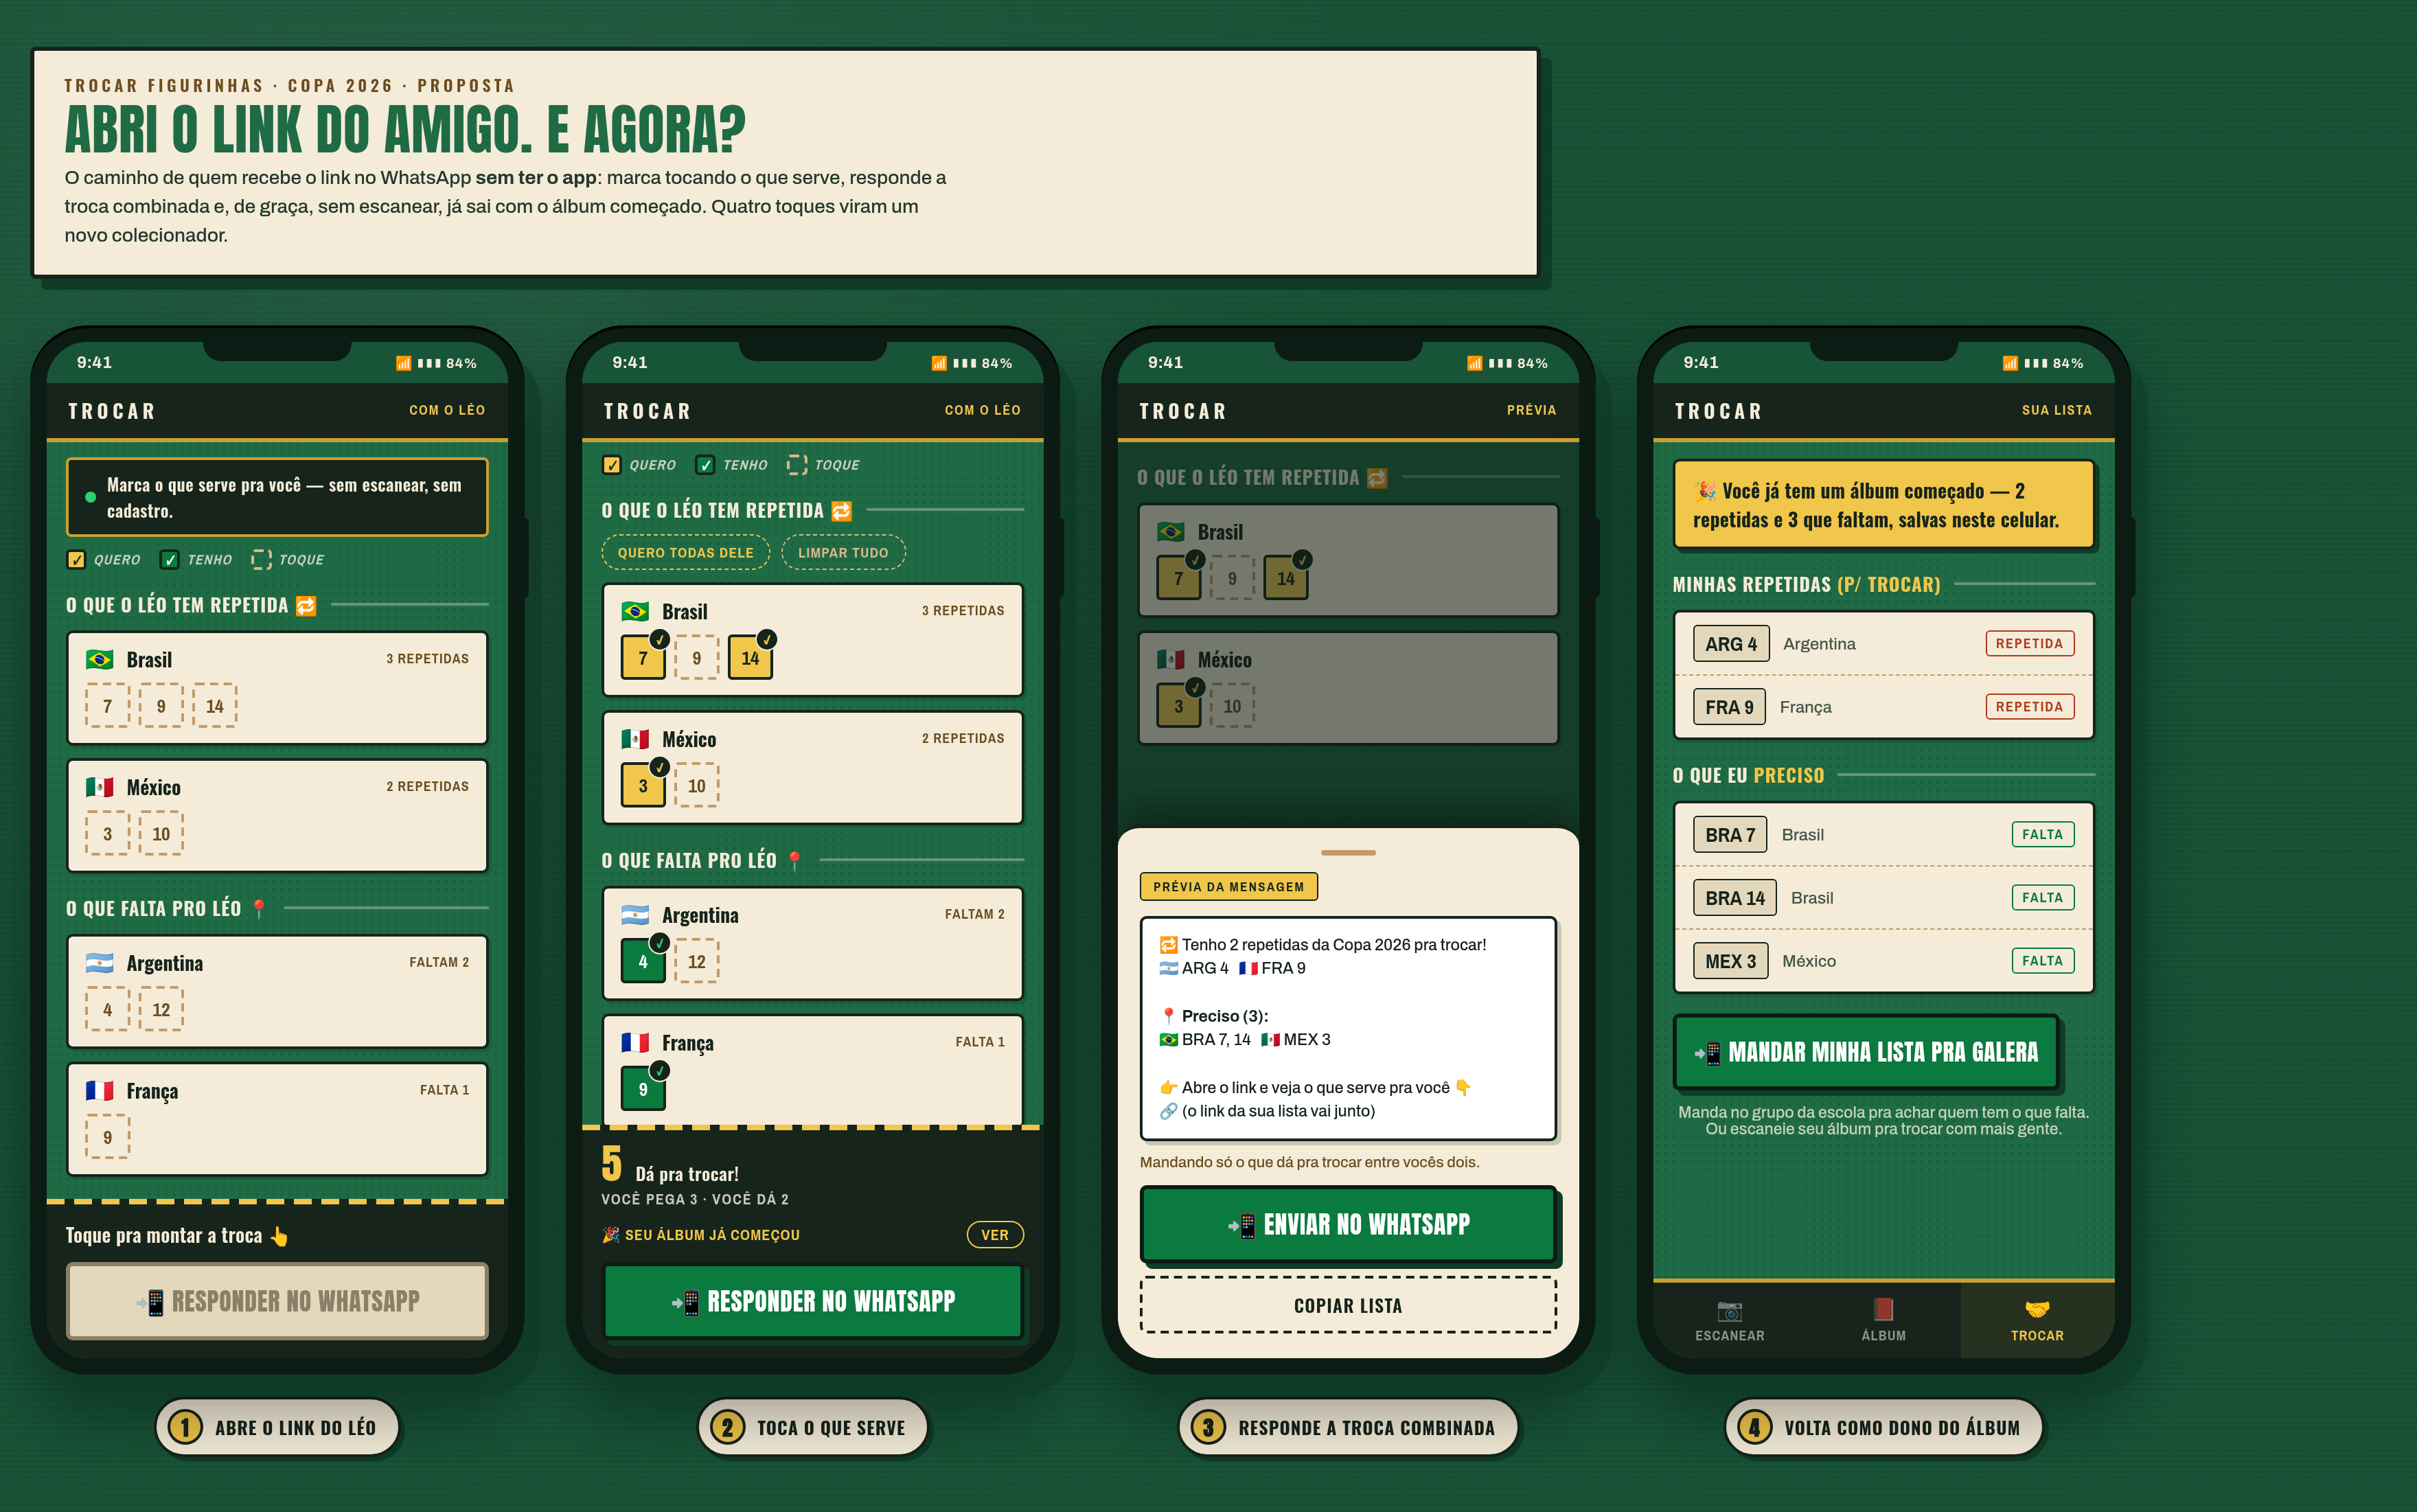
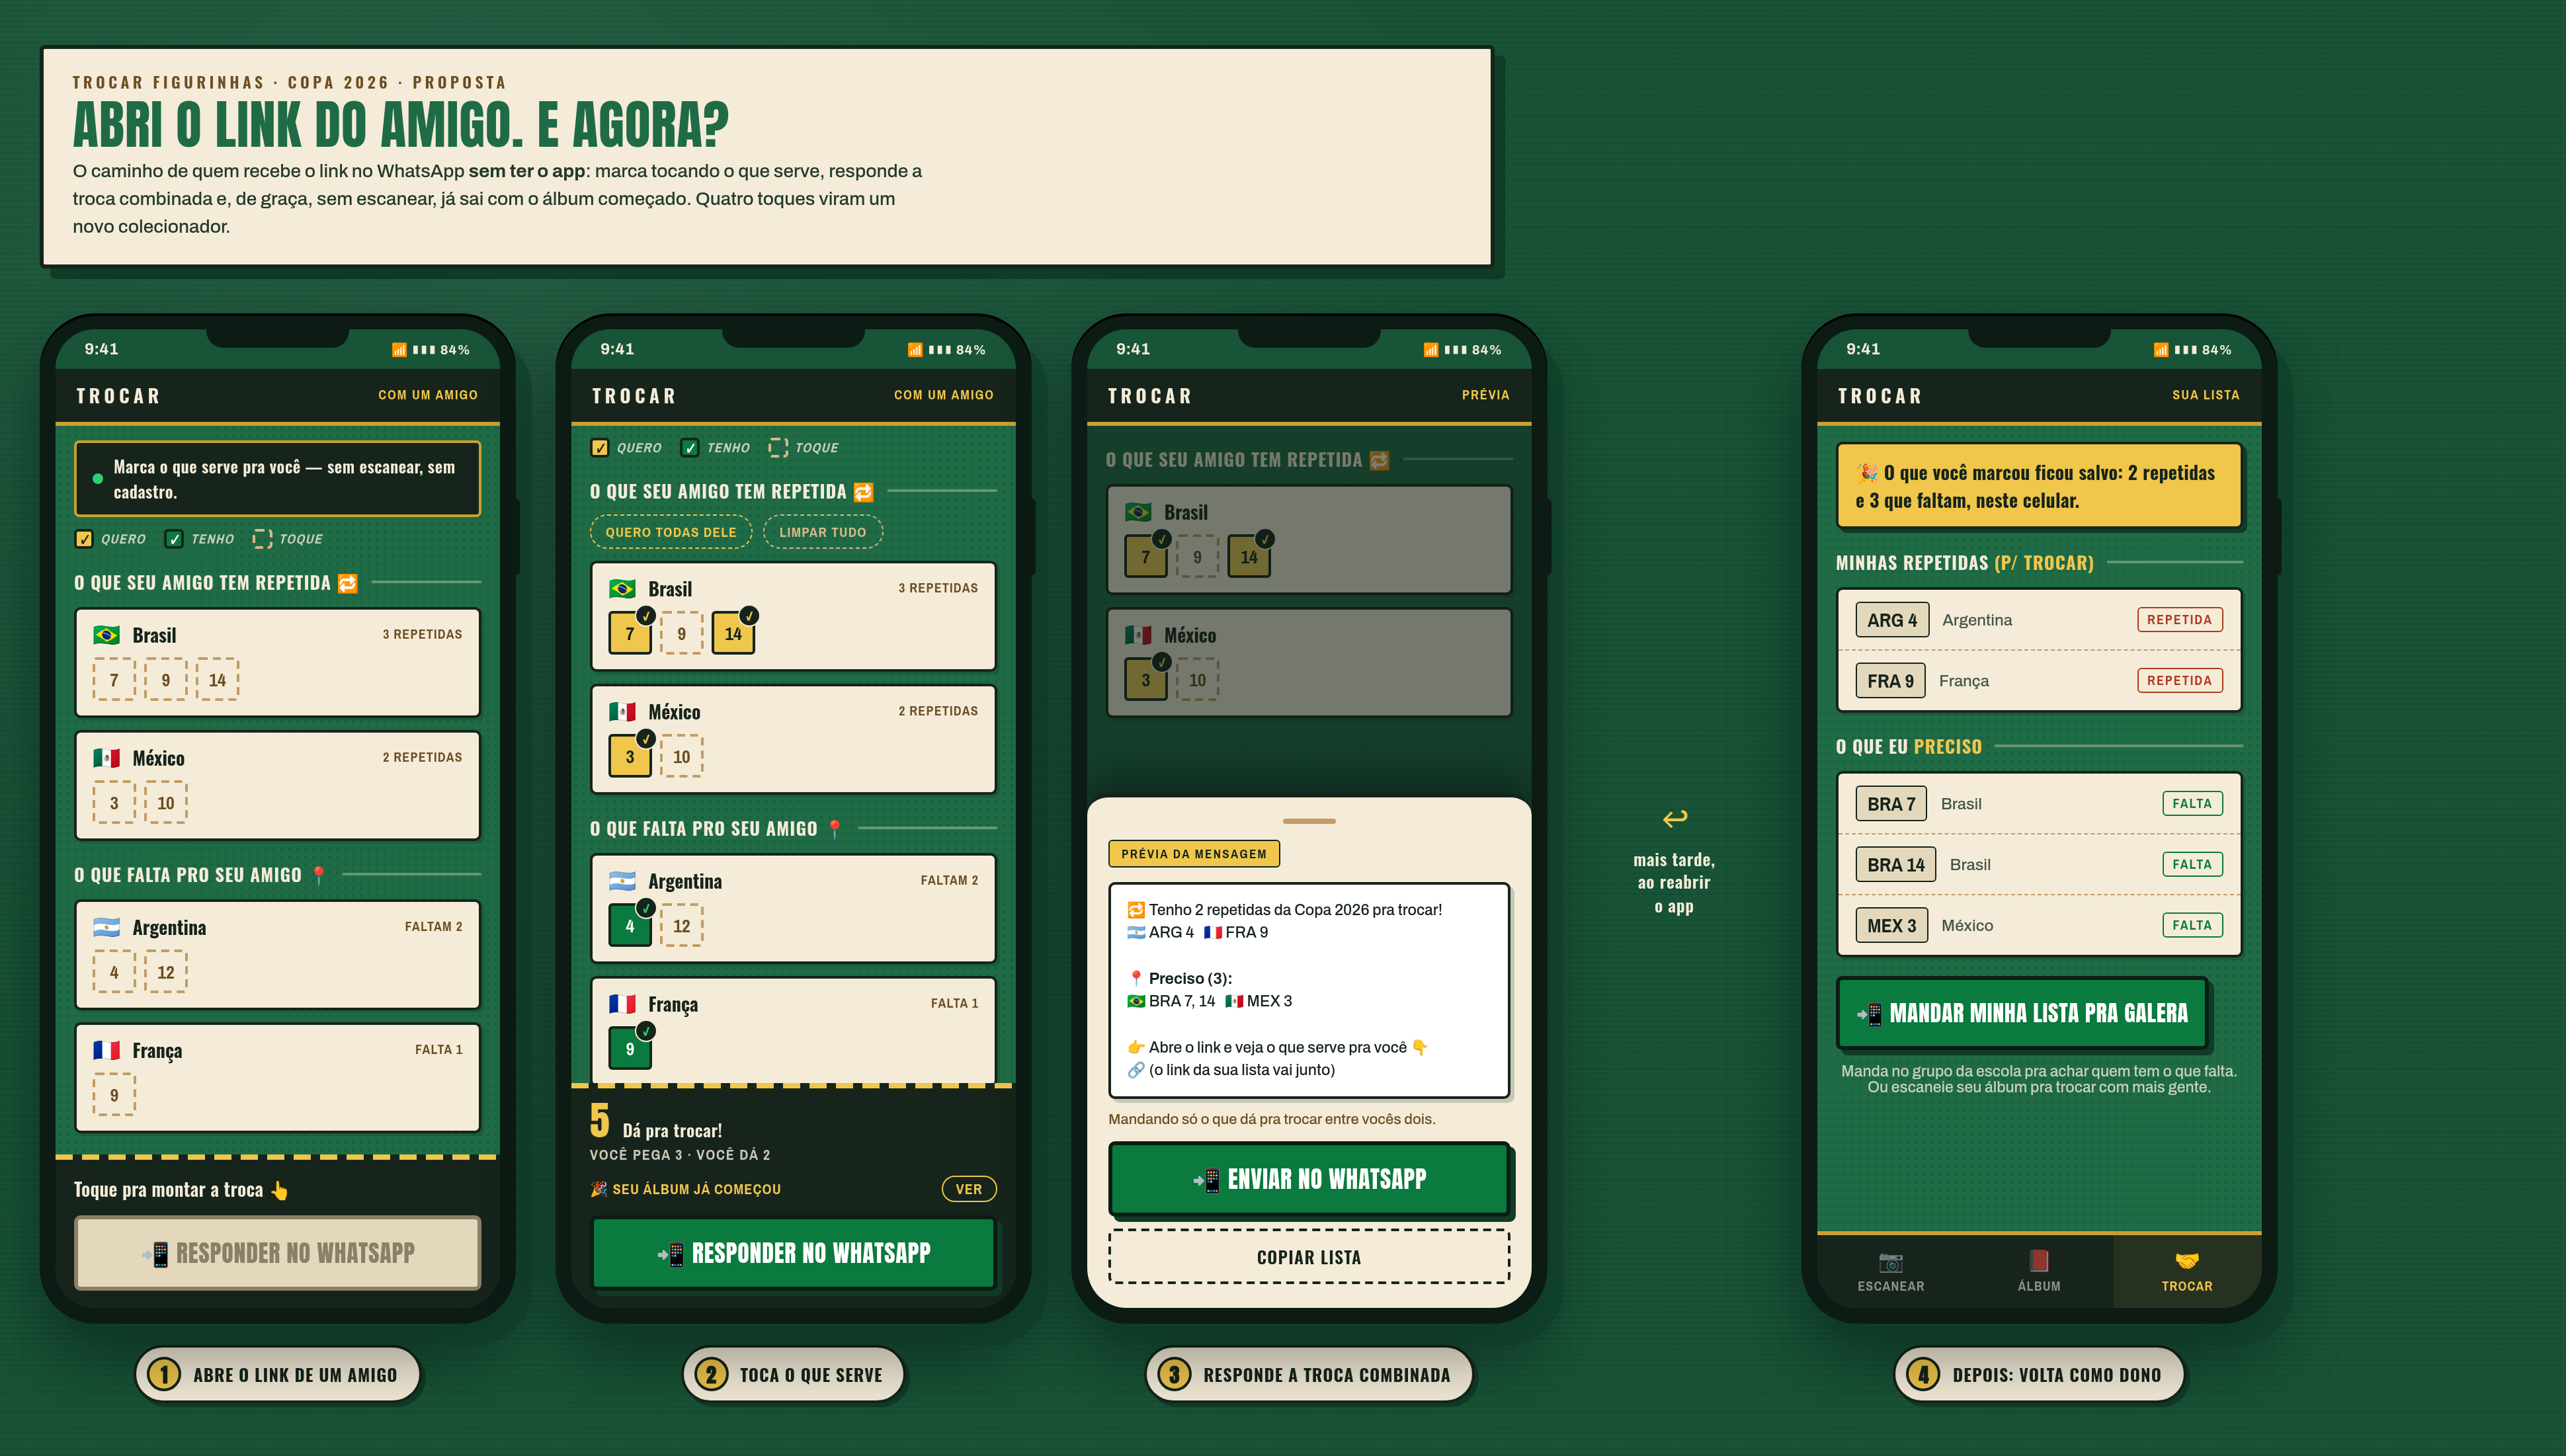
docs(mockups): drop friend-name dependency + clarify return-as-owner is a later session (#30)
- All copy uses generic 'seu amigo' (app collects no name; receiver already
  knows who sent it from the WhatsApp chat). receiverHero() already falls back
  to 'seu amigo'.
- Journey step 4 relabeled 'Depois: volta como dono' with a session-break cue
  ('mais tarde, ao reabrir o app') between screens 3 and 4 — the album commits
  at the send tap; there is no reliable WhatsApp-return callback.

diff --git a/docs/mockups/receiver/02-jornada.html b/docs/mockups/receiver/02-jornada.html
@@ -27,7 +27,7 @@
         <div class="notch"></div>
         <div class="screen">
           <div class="statusbar"><span>9:41</span><span class="dots">📶 ▮▮▮ 84%</span></div>
-          <div class="pagetab"><span class="name">Trocar</span><span class="pg">com o Léo</span></div>
+          <div class="pagetab"><span class="name">Trocar</span><span class="pg">com um amigo</span></div>
           <div class="body">
             <div class="scroll">
               <div class="guide"><span class="pulse"></span>Marca o que serve pra você — sem escanear, sem cadastro.</div>
@@ -37,7 +37,7 @@
                 <i><span class="sw" style="background:transparent;border-style:dashed;border-color:var(--kraft)"></span> toque</i>
               </div>
 
-              <div class="sec-h"><span class="t">O que o Léo tem repetida 🔁</span><span class="rule"></span></div>
+              <div class="sec-h"><span class="t">O que seu amigo tem repetida 🔁</span><span class="rule"></span></div>
               <div class="trow">
                 <div class="th"><span class="flag">🇧🇷</span><span class="tn">Brasil</span><span class="cnt">3 repetidas</span></div>
                 <div class="ncs"><span class="nc">7</span><span class="nc">9</span><span class="nc">14</span></div>
@@ -47,7 +47,7 @@
                 <div class="ncs"><span class="nc">3</span><span class="nc">10</span></div>
               </div>
 
-              <div class="sec-h"><span class="t">O que falta pro Léo 📍</span><span class="rule"></span></div>
+              <div class="sec-h"><span class="t">O que falta pro seu amigo 📍</span><span class="rule"></span></div>
               <div class="trow">
                 <div class="th"><span class="flag">🇦🇷</span><span class="tn">Argentina</span><span class="cnt">faltam 2</span></div>
                 <div class="ncs"><span class="nc">4</span><span class="nc">12</span></div>
@@ -64,7 +64,7 @@
           </div>
         </div>
       </div>
-      <div class="steplab"><span class="n"><b>1</b><span>Abre o link do Léo</span></span></div>
+      <div class="steplab"><span class="n"><b>1</b><span>Abre o link de um amigo</span></span></div>
     </div>
 
     <!-- ============ 2 · TOCA ============ -->
@@ -73,7 +73,7 @@
         <div class="notch"></div>
         <div class="screen">
           <div class="statusbar"><span>9:41</span><span class="dots">📶 ▮▮▮ 84%</span></div>
-          <div class="pagetab"><span class="name">Trocar</span><span class="pg">com o Léo</span></div>
+          <div class="pagetab"><span class="name">Trocar</span><span class="pg">com um amigo</span></div>
           <div class="body">
             <div class="scroll">
               <div class="legend">
@@ -81,7 +81,7 @@
                 <i><span class="sw h">✓</span> tenho</i>
                 <i><span class="sw" style="background:transparent;border-style:dashed;border-color:var(--kraft)"></span> toque</i>
               </div>
-              <div class="sec-h"><span class="t">O que o Léo tem repetida 🔁</span><span class="rule"></span></div>
+              <div class="sec-h"><span class="t">O que seu amigo tem repetida 🔁</span><span class="rule"></span></div>
               <div class="bulk"><button>Quero todas dele</button><button class="clear">Limpar tudo</button></div>
               <div class="trow">
                 <div class="th"><span class="flag">🇧🇷</span><span class="tn">Brasil</span><span class="cnt">3 repetidas</span></div>
@@ -92,7 +92,7 @@
                 <div class="ncs"><span class="nc want">3</span><span class="nc">10</span></div>
               </div>
 
-              <div class="sec-h"><span class="t">O que falta pro Léo 📍</span><span class="rule"></span></div>
+              <div class="sec-h"><span class="t">O que falta pro seu amigo 📍</span><span class="rule"></span></div>
               <div class="trow">
                 <div class="th"><span class="flag">🇦🇷</span><span class="tn">Argentina</span><span class="cnt">faltam 2</span></div>
                 <div class="ncs"><span class="nc have">4</span><span class="nc">12</span></div>
@@ -123,7 +123,7 @@
           <div class="pagetab"><span class="name">Trocar</span><span class="pg">prévia</span></div>
           <div class="body">
             <div class="scroll" style="filter:saturate(.9)">
-              <div class="sec-h"><span class="t">O que o Léo tem repetida 🔁</span><span class="rule"></span></div>
+              <div class="sec-h"><span class="t">O que seu amigo tem repetida 🔁</span><span class="rule"></span></div>
               <div class="trow">
                 <div class="th"><span class="flag">🇧🇷</span><span class="tn">Brasil</span></div>
                 <div class="ncs"><span class="nc want">7</span><span class="nc">9</span><span class="nc want">14</span></div>
@@ -155,7 +155,13 @@
       <div class="steplab"><span class="n"><b>3</b><span>Responde a troca combinada</span></span></div>
     </div>
 
-    <!-- ============ 4 · VOLTA COMO DONO ============ -->
+    <!-- session break: 1-2-3 happen in one go; 4 is a separate, later visit -->
+    <div style="flex:none;align-self:center;width:132px;text-align:center">
+      <div style="font-size:30px;color:var(--gold);line-height:1">↩</div>
+      <div style="font-family:'Oswald';font-weight:600;font-size:13px;letter-spacing:.03em;color:var(--cream);line-height:1.35;margin-top:6px">mais tarde,<br>ao reabrir<br>o app</div>
+    </div>
+
+    <!-- ============ 4 · VOLTA COMO DONO (sessão posterior) ============ -->
     <div>
       <div class="device">
         <div class="notch"></div>
@@ -164,7 +170,7 @@
           <div class="pagetab"><span class="name">Trocar</span><span class="pg">sua lista</span></div>
           <div class="body">
             <div class="scroll">
-              <div class="banner">🎉 Você já tem um álbum começado — 2 repetidas e 3 que faltam, salvas neste celular.</div>
+              <div class="banner">🎉 O que você marcou ficou salvo: 2 repetidas e 3 que faltam, neste celular.</div>
 
               <div class="sec-h"><span class="t">Minhas repetidas <span style="color:var(--gold)">(p/ trocar)</span></span><span class="rule"></span></div>
               <div class="ledger">
@@ -190,7 +196,7 @@
           </div>
         </div>
       </div>
-      <div class="steplab"><span class="n"><b>4</b><span>Volta como dono do álbum</span></span></div>
+      <div class="steplab"><span class="n"><b>4</b><span>Depois: volta como dono</span></span></div>
     </div>
 
   </div>

diff --git a/docs/mockups/receiver/01-tela.html b/docs/mockups/receiver/01-tela.html
@@ -52,7 +52,7 @@
       <div class="notch"></div>
       <div class="screen">
         <div class="statusbar"><span>9:41</span><span class="dots">📶 ▮▮▮ 84%</span></div>
-        <div class="pagetab"><span class="name">Trocar</span><span class="pg">com o Léo</span></div>
+        <div class="pagetab"><span class="name">Trocar</span><span class="pg">com um amigo</span></div>
         <div class="body">
           <div class="scroll">
             <div class="legend">
@@ -60,7 +60,7 @@
               <i><span class="sw h">✓</span> tenho</i>
               <i><span class="sw" style="background:transparent;border-style:dashed;border-color:var(--kraft)"></span> toque</i>
             </div>
-            <div class="sec-h"><span class="t">O que o Léo tem repetida 🔁</span><span class="rule"></span></div>
+            <div class="sec-h"><span class="t">O que seu amigo tem repetida 🔁</span><span class="rule"></span></div>
             <div class="bulk"><button>Quero todas dele</button><button class="clear">Limpar tudo</button></div>
             <div class="trow">
               <div class="th"><span class="flag">🇧🇷</span><span class="tn">Brasil</span><span class="cnt">3 repetidas</span></div>
@@ -70,7 +70,7 @@
               <div class="th"><span class="flag">🇲🇽</span><span class="tn">México</span><span class="cnt">2 repetidas</span></div>
               <div class="ncs"><span class="nc want">3</span><span class="nc">10</span></div>
             </div>
-            <div class="sec-h"><span class="t">O que falta pro Léo 📍</span><span class="rule"></span></div>
+            <div class="sec-h"><span class="t">O que falta pro seu amigo 📍</span><span class="rule"></span></div>
             <div class="trow">
               <div class="th"><span class="flag">🇦🇷</span><span class="tn">Argentina</span><span class="cnt">faltam 2</span></div>
               <div class="ncs"><span class="nc have">4</span><span class="nc">12</span></div>
@@ -94,7 +94,7 @@
     <div class="col">
       <div class="call l">
         <div class="h">Placar honesto</div>
-        <p>Soma só o que você tocou. Sem nada a dar, mostra “Você quer 3 do Léo”, nunca promete uma troca que não existe.</p>
+        <p>Soma só o que você tocou. Sem nada a dar, mostra “Você quer 3 do seu amigo”, nunca promete uma troca que não existe.</p>
       </div>
       <div class="call l">
         <div class="h">Nada grava até enviar</div>